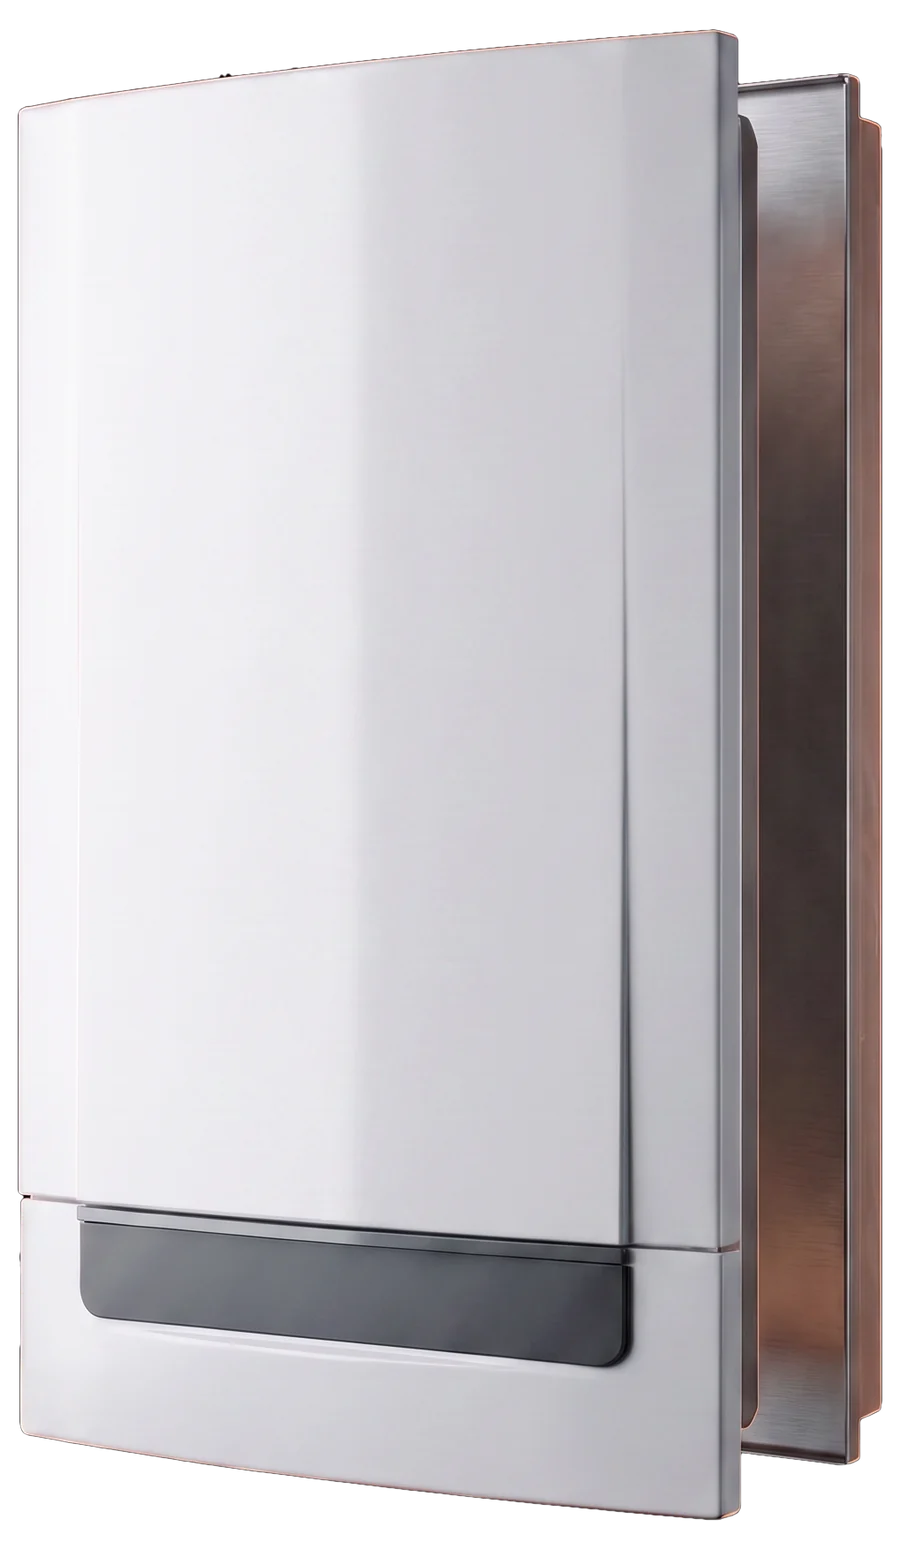
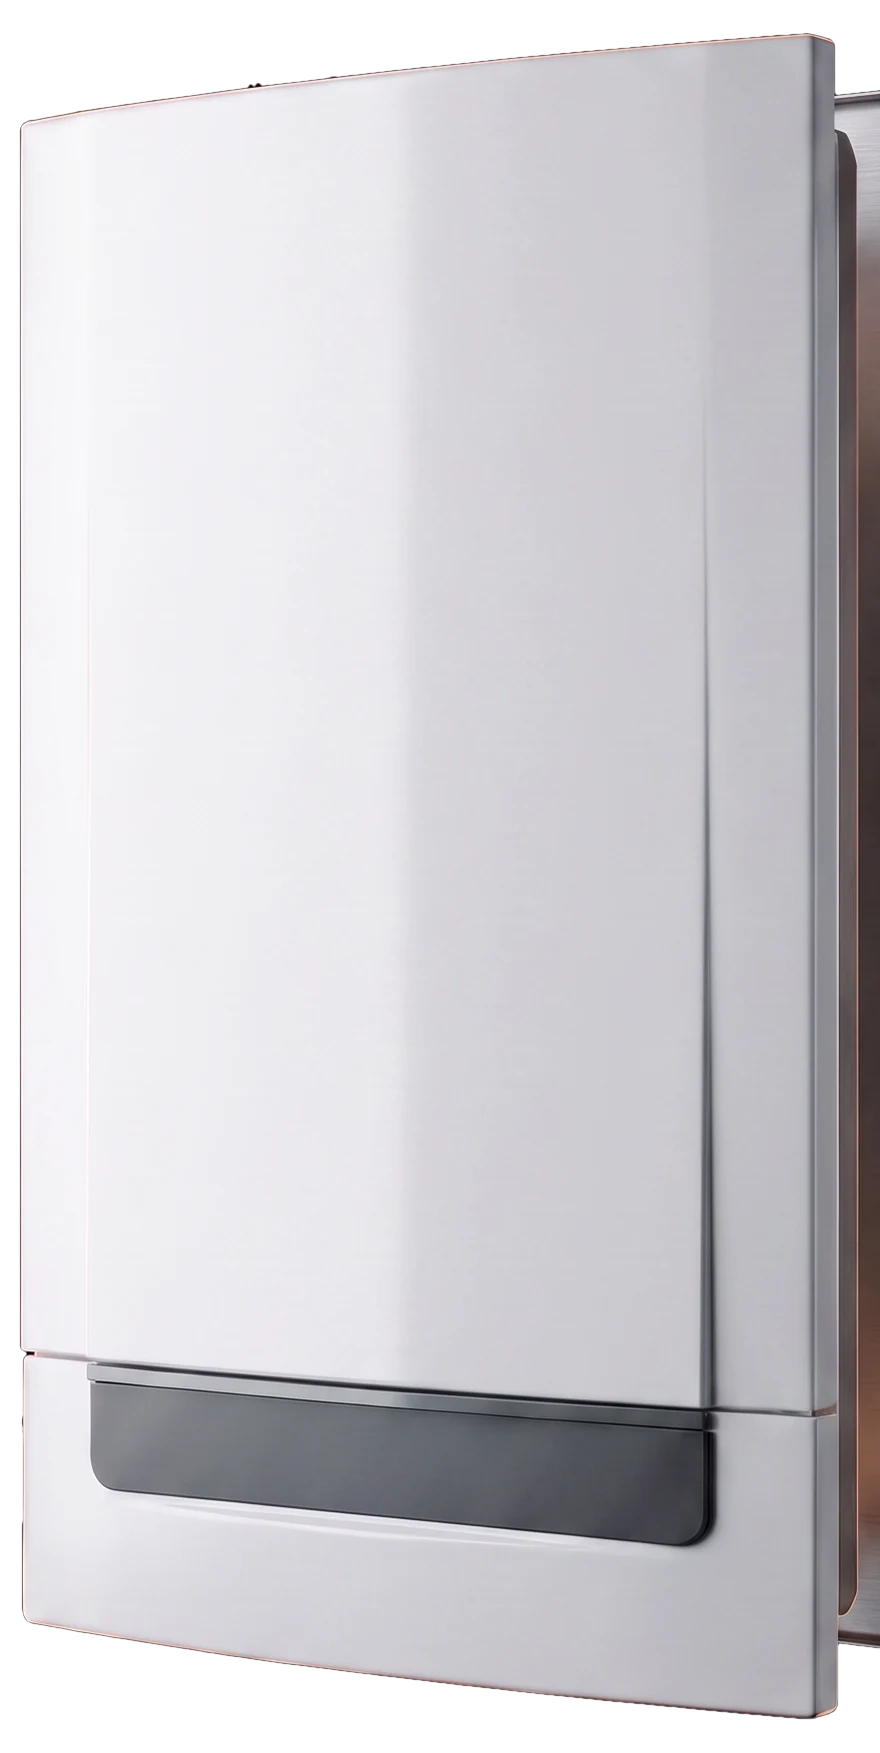
Zdjety wlasny kursor, neutralna paleta zamiast pomaranczu, hero i naglowki normalnym jezykiem, realniejsze otwieranie klapy

diff --git a/index.html b/index.html
@@ -47,7 +47,7 @@
 :root{
   --bg:#08090b; --ink:#f4f2f0; --dim:#9ba1a9; --dim2:#6b727a;
   --line:#1b1f25; --line2:#252a31;
-  --flame:#ff8b3d; --flame2:#ffab6e;
+  --flame:#e9e4dc; --flame2:#ffffff;
   --ease:cubic-bezier(.22,.68,.28,1);
   --eout:cubic-bezier(.16,1,.3,1);
   color-scheme:dark;
@@ -57,7 +57,7 @@ html,body{overflow-x:clip}
 body{background:var(--bg);color:var(--ink);
   font:16px/1.65 Inter,-apple-system,system-ui,sans-serif;-webkit-font-smoothing:antialiased}
 h1,h2,h3{font-family:Sora,Inter,sans-serif;letter-spacing:-.03em;line-height:1.02}
-::selection{background:var(--flame);color:#180d04}
+::selection{background:#e9e4dc;color:#14161a}
 a{color:inherit}
 
 /* ---------- kursor ---------- */
@@ -76,11 +76,8 @@ a{color:inherit}
 .cur.label b{opacity:1;transform:none}
 .cur.wide{width:76px;height:76px;background:rgba(255,255,255,.07);border-color:rgba(255,255,255,.16)}
 .cur.label ~ .curd,.cur.wide ~ .curd{opacity:0;transform:translate(-50%,-50%) scale(.3)}
-/* własny kursor zastępuje systemowy — bez tego widać dwa naraz */
-@media(hover:hover) and (pointer:fine){
-  html,body,a,button,.cmp,.peek button,[data-mag]{cursor:none}
-}
-@media(hover:none){.cur,.curd{display:none}}
+/* własny kursor ZDJĘTY (decyzja K. 31.07) — kółko lecące za myszką rozpraszało */
+.cur,.curd{display:none!important}
 
 /* ---------- ekran startowy ---------- */
 #boot{position:fixed;inset:0;z-index:300;background:var(--bg);
@@ -102,7 +99,7 @@ header.stuck{background:rgba(8,9,11,.7);backdrop-filter:blur(18px) saturate(1.3)
 .brand{font-family:Sora;font-weight:600;font-size:15px;white-space:nowrap}
 .brand span{color:var(--flame)}
 .mag{display:inline-flex;align-items:center;gap:9px;padding:11px 21px;border-radius:100px;
-  text-decoration:none;background:var(--flame);color:#180d04;font-weight:600;font-size:14.5px;white-space:nowrap;
+  text-decoration:none;background:#f2efe9;color:#14161a;font-weight:600;font-size:14.5px;white-space:nowrap;
   will-change:transform;transition:background .3s}
 .mag:hover{background:var(--flame2)}
 .mag svg{width:15px;height:15px;fill:currentColor}
@@ -162,13 +159,13 @@ header.stuck{background:rgba(8,9,11,.7);backdrop-filter:blur(18px) saturate(1.3)
   filter:drop-shadow(0 30px 70px rgba(0,0,0,.8))}
 /* światło bijące z otwartego kotła */
 .opglow{position:absolute;border-radius:50%;pointer-events:none;mix-blend-mode:screen;
-  background:radial-gradient(circle,rgba(255,150,54,.85) 0%,rgba(255,110,30,.42) 26%,rgba(255,90,20,.12) 52%,transparent 74%)}
+  background:radial-gradient(circle,rgba(255,214,168,.5) 0%,rgba(255,190,130,.22) 26%,rgba(255,175,110,.07) 52%,transparent 74%)}
 /* w zbliżeniach kadr robi się jasny i tekst ginie — ten gradient wchodzi tylko
    wtedy, gdy kamera jest w środku kotła */
 .opshade{position:absolute;inset:0;pointer-events:none;opacity:0;
   background:linear-gradient(96deg,rgba(4,5,7,.95) 0%,rgba(4,5,7,.9) 22%,rgba(4,5,7,.6) 38%,rgba(4,5,7,.14) 54%,transparent 68%)}
 .opflash{position:absolute;inset:0;z-index:6;pointer-events:none;opacity:0;mix-blend-mode:screen;
-  background:radial-gradient(60% 50% at 58% 48%,rgba(255,146,58,.55) 0%,rgba(255,105,25,.22) 40%,transparent 72%)}
+  background:radial-gradient(60% 50% at 58% 48%,rgba(255,226,190,.3) 0%,rgba(255,200,150,.1) 40%,transparent 72%)}
 .opdots{position:absolute;left:50%;bottom:clamp(24px,4vh,48px);transform:translateX(-50%);
   display:flex;gap:7px;z-index:7}
 .opdots i{display:block;width:20px;height:2px;border-radius:2px;background:#2b3138;
@@ -219,13 +216,13 @@ header.stuck{background:rgba(8,9,11,.7);backdrop-filter:blur(18px) saturate(1.3)
 .bx:hover{transform:translateY(-4px);border-color:#333a43}
 /* obramowanie z poświatą, które budzi się pod kursorem */
 .bx::before{content:"";position:absolute;inset:-1px;border-radius:23px;padding:1px;opacity:0;
-  background:radial-gradient(340px 200px at var(--mx,50%) var(--my,50%),rgba(255,139,61,.55),transparent 65%);
+  background:radial-gradient(340px 200px at var(--mx,50%) var(--my,50%),rgba(236,231,222,0.303),transparent 65%);
   -webkit-mask:linear-gradient(#000 0 0) content-box,linear-gradient(#000 0 0);
   -webkit-mask-composite:xor;mask-composite:exclude;
   transition:opacity .5s var(--ease);pointer-events:none}
 .bx:hover::before{opacity:1}
 .bx::after{content:"";position:absolute;inset:0;opacity:0;pointer-events:none;
-  background:radial-gradient(420px 240px at var(--mx,50%) var(--my,50%),rgba(255,139,61,.09),transparent 68%);
+  background:radial-gradient(420px 240px at var(--mx,50%) var(--my,50%),rgba(236,231,222,0.050),transparent 68%);
   transition:opacity .5s var(--ease)}
 .bx:hover::after{opacity:1}
 .bx .lab{font-size:11px;letter-spacing:.24em;text-transform:uppercase;color:var(--dim2);font-weight:600}
@@ -242,7 +239,7 @@ header.stuck{background:rgba(8,9,11,.7);backdrop-filter:blur(18px) saturate(1.3)
 .chips{display:flex;flex-wrap:wrap;gap:8px;margin-top:18px}
 .chips i{font-style:normal;font-size:13px;padding:7px 14px;border:1px solid var(--line2);
   border-radius:100px;color:var(--dim);transition:border-color .4s,color .4s,background .4s}
-.chips i:hover{border-color:rgba(255,139,61,.5);color:var(--flame2);background:rgba(255,139,61,.06)}
+.chips i:hover{border-color:rgba(236,231,222,0.275);color:var(--flame2);background:rgba(236,231,222,0.033)}
 
 /* ---------- suwak przed / po ---------- */
 .cmp{position:relative;margin-top:50px;border-radius:24px;overflow:hidden;border:1px solid var(--line);
@@ -250,7 +247,7 @@ header.stuck{background:rgba(8,9,11,.7);backdrop-filter:blur(18px) saturate(1.3)
 .cmp img{position:absolute;inset:0;width:100%;height:100%;object-fit:cover;pointer-events:none}
 .cmp .after{clip-path:inset(0 0 0 var(--sp,50%))}
 .cmp .hnd{position:absolute;top:0;bottom:0;left:var(--sp,50%);width:2px;background:rgba(255,255,255,.9);
-  transform:translateX(-1px);pointer-events:none;box-shadow:0 0 22px rgba(255,139,61,.65)}
+  transform:translateX(-1px);pointer-events:none;box-shadow:0 0 22px rgba(236,231,222,0.358)}
 .cmp .hnd::after{content:"";position:absolute;left:50%;top:50%;width:54px;height:54px;
   transform:translate(-50%,-50%);border-radius:50%;border:1px solid rgba(255,255,255,.85);
   background:rgba(10,12,15,.5);backdrop-filter:blur(8px)}
@@ -333,7 +330,7 @@ header.stuck{background:rgba(8,9,11,.7);backdrop-filter:blur(18px) saturate(1.3)
   border-radius:30px;overflow:hidden;padding:clamp(44px,7vw,84px);
   background:linear-gradient(150deg,#15100c,#0b0d10 55%);border:1px solid #2a2119}
 .cta::before{content:"";position:absolute;inset:0;pointer-events:none;
-  background:radial-gradient(700px 340px at 12% 0%,rgba(255,139,61,.20),transparent 62%)}
+  background:radial-gradient(700px 340px at 12% 0%,rgba(236,231,222,0.110),transparent 62%)}
 .cta::after{content:"";position:absolute;inset:0;pointer-events:none;opacity:.5;
   background-image:radial-gradient(rgba(255,255,255,.05) 1px,transparent 1px);background-size:5px 5px;
   -webkit-mask-image:radial-gradient(70% 70% at 20% 10%,#000,transparent);
@@ -347,7 +344,7 @@ header.stuck{background:rgba(8,9,11,.7);backdrop-filter:blur(18px) saturate(1.3)
   display:flex;align-items:center;justify-content:space-between;gap:32px;flex-wrap:wrap;
   background:linear-gradient(120deg,#16110c,#0b0d10 62%);border:1px solid #2a2119}
 .season::before{content:"";position:absolute;inset:0;pointer-events:none;
-  background:radial-gradient(520px 260px at 8% 10%,rgba(255,139,61,.16),transparent 62%)}
+  background:radial-gradient(520px 260px at 8% 10%,rgba(236,231,222,0.088),transparent 62%)}
 .season>*{position:relative}
 .season .lft b{display:block;font-family:Sora;font-weight:600;letter-spacing:-.025em;
   font-size:clamp(21px,2.6vw,32px);margin-bottom:8px}
@@ -430,14 +427,14 @@ section.block{padding:clamp(88px,13vh,150px) clamp(20px,6.5vw,104px);border-top:
   overflow:hidden;transition:border-color .5s var(--ease)}
 .hcard:hover{border-color:#343b44}
 .hcard::after{content:"";position:absolute;inset:0;opacity:0;pointer-events:none;
-  background:radial-gradient(500px 260px at var(--mx,50%) var(--my,0%),rgba(255,139,61,.13),transparent 70%);
+  background:radial-gradient(500px 260px at var(--mx,50%) var(--my,0%),rgba(236,231,222,0.072),transparent 70%);
   transition:opacity .5s}
 .hcard:hover::after{opacity:1}
 .hcard .n{font-family:Sora;font-size:12px;letter-spacing:.2em;color:var(--dim2)}
 .hcard h3{font-size:clamp(22px,2.4vw,30px);font-weight:600;margin:0 0 12px}
 .hcard p{font-size:15px;color:var(--dim);line-height:1.62;max-width:34ch}
 .hcard .ic{width:42px;height:42px;border-radius:12px;display:flex;align-items:center;justify-content:center;
-  background:rgba(255,139,61,.09);border:1px solid rgba(255,139,61,.2)}
+  background:rgba(236,231,222,0.050);border:1px solid rgba(236,231,222,0.110)}
 .hcard .ic svg{width:19px;height:19px;stroke:var(--flame);fill:none;stroke-width:1.6;stroke-linecap:round;stroke-linejoin:round}
 
 .steps{display:grid;grid-template-columns:repeat(4,1fr);margin-top:56px;position:relative}
@@ -547,8 +544,8 @@ footer{padding:32px clamp(20px,6.5vw,104px);border-top:1px solid var(--line);
     <div class="chapters" id="chapters">
       <div class="ch hero" data-i="0">
         <div class="eyebrow"><i>Gniezno i okolice · Kamil Szymański</i></div>
-        <h1 class="kin">Kocioł ma <em>działać</em>. Nie zastanawiać Cię.</h1>
-        <p class="lead">Przeglądy, naprawy i montaż kotłów gazowych. Ty mówisz, co się dzieje — ja mówię, ile i kiedy.</p>
+        <h1 class="kin">Przeglądy, naprawy i montaż kotłów gazowych</h1>
+        <p class="lead">Pracuję sam, na kotłach wszystkich popularnych marek. Zadzwoń i powiedz, co się dzieje — zwykle jestem u Ciebie następnego dnia.</p>
         <div class="row">
           <a class="mag" href="tel:+48782492609" data-mag data-cur="Zadzwoń">
             <svg viewBox="0 0 24 24"><path d="M6.6 10.8c1.4 2.8 3.8 5.1 6.6 6.6l2.2-2.2c.3-.3.7-.4 1-.2 1.1.4 2.4.6 3.6.6.6 0 1 .4 1 1V20c0 .6-.4 1-1 1C10.4 21 3 13.6 3 4.5c0-.6.4-1 1-1h3.5c.6 0 1 .4 1 1 0 1.3.2 2.5.6 3.6.1.3 0 .7-.2 1l-2.3 1.7z"/></svg>
@@ -906,7 +903,7 @@ var FS=[
 '  col.r=texture2D(t,uv-dir*ab).r;',
 '  col.b=texture2D(t,uv+dir*ab).b;',
 // ciepły refleks od strony płomienia
-'  col+=vec3(1.0,0.55,0.22)*warm*0.10*(1.0-smoothstep(0.0,0.75,length(c-vec2(0.18,0.0))));',
+'  col+=vec3(1.0,0.72,0.46)*warm*0.055*(1.0-smoothstep(0.0,0.75,length(c-vec2(0.18,0.0))));',
 // ziarno
 '  col+=(h(uv*res+time)-0.5)*0.040;',
 // winieta
@@ -1066,19 +1063,19 @@ var railBtns=[].slice.call(rail.children);
    wskazany podzespół wypadł w kadrze. Punkty ux/uy to położenie danego elementu
    w obrazku wnętrza (0-1). */
 var OPP=[
-  {ux:0.556,uy:0.497,z:2.55,mz:2.10,fire:1, k:'Palnik',
-   h:'Tu powstaje ciepło', p:'Gaz miesza się z powietrzem i pali równym, niebieskim płomieniem. Żółty i kopcący znaczy, że mieszanka jest źle ustawiona — spalasz więcej, a grzeje słabiej.'},
-  {ux:0.556,uy:0.370,z:2.35,mz:1.95,fire:0.25, k:'Wymiennik ciepła',
-   h:'Miedź oddaje je wodzie', p:'Przez te żeberka ciepło ze spalin przechodzi do wody w grzejnikach. Osad i sadza na nich to ciepło, które ucieka kominem zamiast do domu.'},
-  {ux:0.430,uy:0.636,z:2.85,mz:2.30,fire:0.1, k:'Pompa obiegowa',
-   h:'Rozprowadza po całym domu', p:'Zapowietrzona albo zatarta zostawia zimne grzejniki na końcu obiegu, zwykle na piętrze. Słychać ją wtedy przez ścianę.'},
-  {ux:0.735,uy:0.405,z:2.75,mz:2.25,fire:0.08, k:'Naczynie przeponowe',
-   h:'Trzyma ciśnienie w ryzach', p:'Przejmuje wodę, która przy nagrzewaniu zwiększa objętość. Gdy straci powietrze, ciśnienie skacze i kocioł zrzuca wodę zaworem.'},
-  {ux:0.588,uy:0.723,z:2.75,mz:2.25,fire:0.05, k:'Sterownik',
-   h:'Pilnuje całej reszty', p:'Zapala palnik, steruje pompą i wyłącza kocioł przy usterce. Stąd biorą się kody błędów na wyświetlaczu.'}
+  {ux:0.556,uy:0.497,z:2.55,mz:2.10,fire:1, k:'Element 1 z 5',
+   h:'Palnik', p:'Gaz miesza się z powietrzem i pali równym, niebieskim płomieniem. Żółty i kopcący znaczy, że mieszanka jest źle ustawiona — spalasz więcej, a grzeje słabiej.'},
+  {ux:0.556,uy:0.370,z:2.35,mz:1.95,fire:0.25, k:'Element 2 z 5',
+   h:'Wymiennik ciepła', p:'Przez te żeberka ciepło ze spalin przechodzi do wody w grzejnikach. Osad i sadza na nich to ciepło, które ucieka kominem zamiast do domu.'},
+  {ux:0.430,uy:0.636,z:2.85,mz:2.30,fire:0.1, k:'Element 3 z 5',
+   h:'Pompa obiegowa', p:'Zapowietrzona albo zatarta zostawia zimne grzejniki na końcu obiegu, zwykle na piętrze. Słychać ją wtedy przez ścianę.'},
+  {ux:0.735,uy:0.405,z:2.75,mz:2.25,fire:0.08, k:'Element 4 z 5',
+   h:'Naczynie przeponowe', p:'Przejmuje wodę, która przy nagrzewaniu zwiększa objętość. Gdy straci powietrze, ciśnienie skacze i kocioł zrzuca wodę zaworem.'},
+  {ux:0.588,uy:0.723,z:2.75,mz:2.25,fire:0.05, k:'Element 5 z 5',
+   h:'Sterownik', p:'Zapala palnik, steruje pompą i wyłącza kocioł przy usterce. Stąd biorą się kody błędów na wyświetlaczu.'}
 ];
 var OPINTRO={k:'Otwieramy',h:'Zajrzyjmy do środka',p:'Przewiń — klapa się otwiera i wchodzimy do wnętrza kotła.'};
-var OPOUT={k:'Przegląd',h:'Przechodzę przez każdy z nich',p:'Przy przeglądzie sprawdzam je po kolei. Dlatego wiem, co się zepsuje, zanim się zepsuje.'};
+var OPOUT={k:'Przegląd',h:'Tyle sprawdzam przy przeglądzie',p:'Przy przeglądzie sprawdzam je po kolei. Dlatego wiem, co się zepsuje, zanim się zepsuje.'};
 
 var opBox=document.getElementById('open'),opCam=document.getElementById('opcam');
 var opIn=document.getElementById('opin'),opDoor=document.getElementById('opdoor');
@@ -1123,15 +1120,20 @@ function opFrame(t){
   opIn.style.left=Math.round(il)+'px';opIn.style.top=Math.round(it)+'px';
 
   /* klapa zakrywa otwór w obudowie; zawias na lewej krawędzi */
-  var dw=iw*0.735, dh=ih*0.963;
-  var dl=il+iw*0.264, dt=it+ih*0.017;
+  var dw=iw*0.700, dh=ih*0.938;
+  var dl=il+iw*0.283, dt=it+ih*0.030;
   opDoor.style.width=Math.round(dw)+'px';opDoor.style.height=Math.round(dh)+'px';
   opDoor.style.left=Math.round(dl)+'px';opDoor.style.top=Math.round(dt)+'px';
 
   /* KLAPA: 0 -> 118 stopni, potem znika za kadrem */
   var op=E(R((t-0.075)/0.190,0,1));
-  var gone=R((t-0.275)/0.075,0,1);
-  opDoor.style.transform='rotateY('+(-op*118).toFixed(1)+'deg) translateZ(0)';
+  var gone=R((t-0.285)/0.070,0,1);
+  var ang=op*96;
+  // im bardziej klapa odwraca się od światła, tym ciemniejsza — bez tego wygląda
+  // jak płaska naklejka przesuwana po ekranie, a nie jak otwierane drzwiczki
+  var lit=1-0.52*Math.sin(ang*Math.PI/180);
+  opDoor.style.transform='rotateY('+(-ang).toFixed(1)+'deg) translateZ(0)';
+  opDoor.style.filter='drop-shadow(0 30px 70px rgba(0,0,0,.8)) brightness('+lit.toFixed(3)+')';
   opDoor.style.opacity=(1-gone).toFixed(3);
   opDoor.style.visibility=gone>0.99?'hidden':'visible';
 
